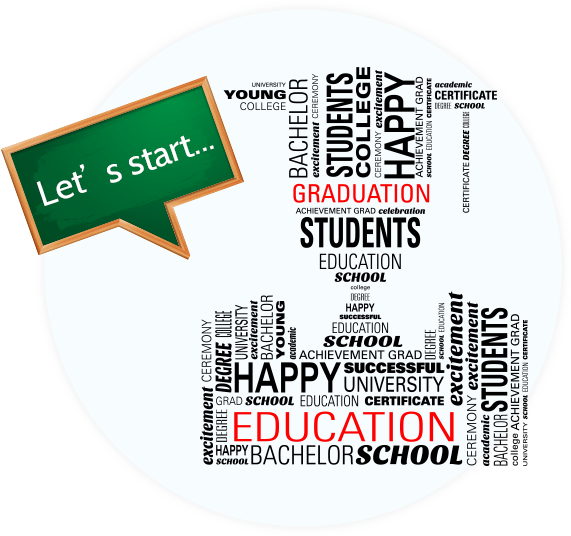
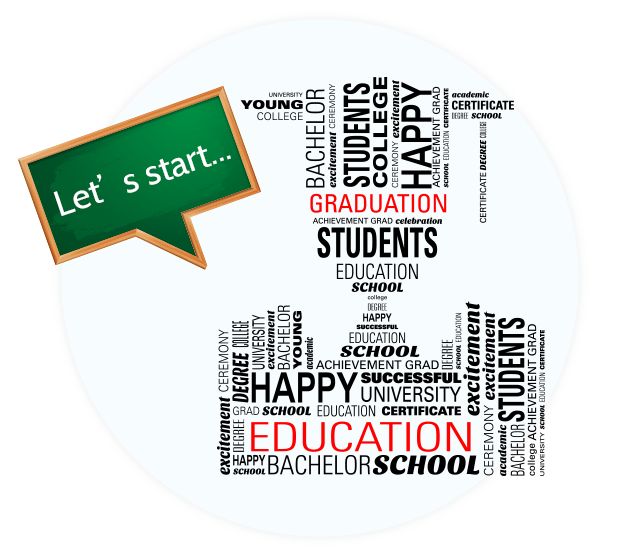
词汇测试

Changed region(s): [[0.0, 0.1194, 0.9229, 0.8955]]

diff --git a/src/webapp/component/word/style/word.less b/src/webapp/component/word/style/word.less
@@ -64,8 +64,7 @@ body {
     }
     .start-bg {
       width: 100%;
-      height: 5.36rem;
-      padding: 0 1.16rem;
+      height: 5.60rem;
       background: url(/asset/img/pic_test_start@2x.png) no-repeat center;
       background-size: contain;
     }
